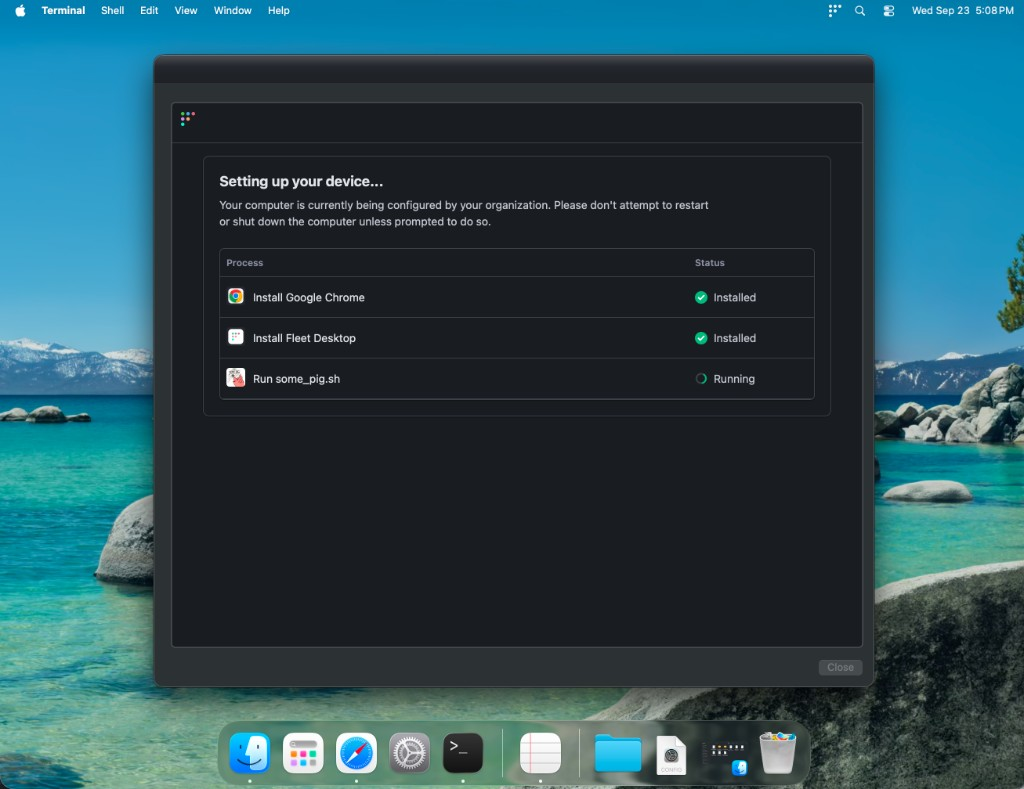
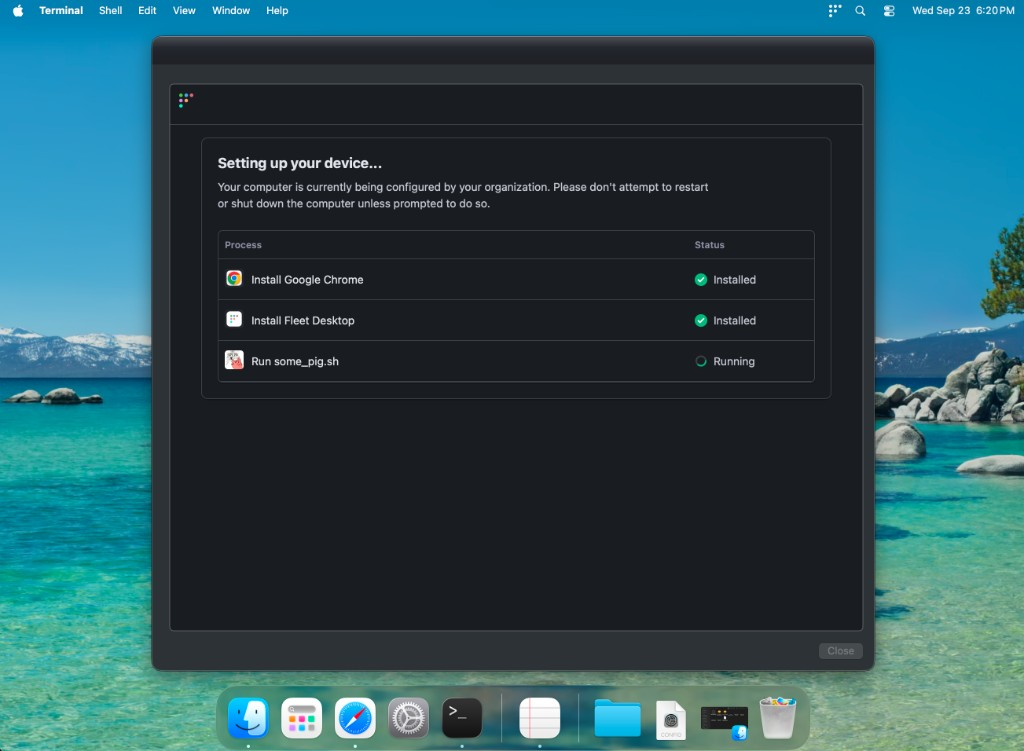
Clarify and reformat fleet-interlude docs
Polish fleet-interlude documentation: deployment guidance clearer and more concise.

diff --git a/fleet-interlude/example-deployment.md b/fleet-interlude/example-deployment.md
@@ -4,11 +4,14 @@ This is one working example of how to run Interlude in production. It uses a ded
 
 ## Goal
 
-| User story  |
-|:---------------------------------------------------------------------------|
-| As an IT admin,
-| I want a specific set of software to install, in order, on manually enrolled macOS hosts immediately after enrollment and before anything else,
-| so that I can confirm each new host meets a standardized, base-level configuration before it is transferred to our production fleet.
+
+| User story                                                                                                                                                      |
+| --------------------------------------------------------------------------------------------------------------------------------------------------------------- |
+| As an IT admin,                                                                                                                                                 |
+| I want a specific set of software/scripts to install and run, in order, on manually enrolled macOS hosts immediately after enrollment and before anything else, |
+| so that I can confirm each new host meets a standardized, base-level configuration before it is transferred to our production fleet.                            |
+
+
 
 
 ## Overview
@@ -17,39 +20,37 @@ Newly enrolled hosts land in a staging fleet, Interlude runs there on the host's
 
 The staging fleet does three jobs:
 
-- **Its enroll secret is the filter.** Only hosts enrolled with the staging fleet's link get Interlude. Existing hosts and ADE enrollments never land there, so you don't need a label to tell a new manual enrollment apart from a migration or an existing host.
-- **It keeps Interlude first.** Fleet doesn't let you order policy automations ([fleetdm/fleet#29921](https://github.com/fleetdm/fleet/issues/29921)). Keeping every other policy, automation, and software title out of the staging fleet is the reliable way to make sure nothing else queues work before Interlude runs.
-- **It avoids label timing.** Labels and policies are both evaluated on a new host's first check-in, so a policy gated by a label can fire earlier or later than you expect ([fleetdm/fleet#49083](https://github.com/fleetdm/fleet/issues/49083) was a bug in this area). A fleet boundary has no such race.
+- **Its enroll secret is the filter.** Only hosts enrolled with the staging fleet's URL get Interlude.
+- **It keeps Interlude first.** Fleet doesn't let you order policy automations (as of version 4.92.0). Keeping every other policy, automation, and software title out of the staging fleet is the reliable way to make sure nothing else queues work before Interlude runs.
+- **It avoids label timing.** Labels and policies are both evaluated on a new host's first check-in, so a policy gated by a label can fire earlier or later than you expect. A fleet boundary has no such race.
 
-If you require end user authentication on your manual enrollment link, turn it on for the staging fleet too. The enroll secret decides which fleet's settings apply, so IdP sign-in and user-to-host mapping only happen when the secret belongs to a fleet that requires it.
+
 
 ## Steps
 
 1. Create a new fleet named `Manual enrollment staging`.
-2. In that fleet, add a self-service software title for each item you want Interlude to install. Custom packages, script-only packages, Fleet-maintained apps, and App Store (VPP) apps all work. VPP apps require the host to be MDM-enrolled in Fleet; the others need only fleetd.
+2. In that fleet, add a self-service software title for each item you want Interlude to install. Custom packages, script-only packages, Fleet-maintained apps, and App Store (VPP) apps all work.
 3. Customize `fleet-interlude.sh` to your needs. At minimum, set `STEPS` to your title names in the order you want them installed.
 4. Upload `fleet-interlude.sh` to the staging fleet under **Controls > Scripts**.
 5. Create a policy in the staging fleet named **macOS - Fleet Interlude complete** that fails until the sentinel exists. Set its run-script automation to `fleet-interlude.sh`. A new host fails this policy on its first check-in, which is what starts Interlude.
-
-    ```sql
+  ```sql
     SELECT 1 FROM file WHERE path = '/var/db/fleet-interlude.done';
-    ```
-
+  ```
 6. Create a policy in the staging fleet named **macOS - Fleet Interlude verified** that passes only when the sentinel and every title you intended to install are present. Each `EXISTS` below maps to one `STEPS` entry. The last one checks a file that the example script-only package writes.
-
-    ```sql
+  ```sql
     SELECT 1 WHERE
       EXISTS (SELECT 1 FROM file WHERE path = '/var/db/fleet-interlude.done')
       AND EXISTS (SELECT 1 FROM apps WHERE bundle_identifier = 'com.google.Chrome')
       AND EXISTS (SELECT 1 FROM file WHERE path = '/Applications/Fleet Desktop.app')
       AND EXISTS (SELECT 1 FROM file WHERE path = '/var/db/some-pig.ran');
-    ```
-
+  ```
 7. Keep **all other policies, automations, and software** out of the staging fleet unless Interlude needs them.
 8. Hand out only the staging fleet's enrollment link for manual enrollments.
 9. Once a host passes **macOS - Fleet Interlude verified**, transfer it to your production fleet.
 
 > *Optional*: Use Tines or another automation platform to [transfer verified hosts to your production fleet](https://fleetdm.com/docs/rest-api/rest-api#update-hosts-fleet) and surface failures in Slack.
+
+
 
 ## GitOps equivalent
 
@@ -94,7 +95,3 @@ software:
       AND EXISTS (SELECT 1 FROM file WHERE path = '/var/db/some-pig.ran');
 ```
 
-## Re-enrollment and retries
-
-- **Re-enrolling a wiped Mac.** The sentinel lives on disk, so a wiped Mac runs Interlude again once it re-enrolls into the staging fleet. Fleet, however, keeps a non-ADE host's previous policy results and label memberships until they refresh, so the host can briefly show **Fleet Interlude verified** as passing. If you automate the transfer to production, delete the host from Fleet before re-enrolling it. That is Fleet's current guidance for non-ADE hosts.
-- **A failed run.** Fleet's run-script automation fires when the policy first fails, not on every failing run. If Interlude ends with a failed step, the sentinel is not written, the host stays in staging, and the script does not re-run on its own. Fix the title, then re-run the script from **Host details > Actions > Run script**.

diff --git a/fleet-interlude/README.md b/fleet-interlude/README.md
@@ -2,7 +2,7 @@
 
 A post-login setup tracker designed for non-ADE Macs enrolling into Fleet. 
 
-![Fleet Interlude window showing Google Chrome and Fleet Desktop installed and some_pig.sh running](images/fleet-interlude.jpg)
+![Fleet Interlude window in dark mode showing Google Chrome and Fleet Desktop installed and some_pig.sh running](images/fleet-interlude.jpg)
 
 > **NOTE**: This is a community project, not officially supported by Fleet. It is not designed to replace Fleet's native setup experience feature for Macs going through Automated Device Enrollment (ADE).
 
@@ -77,7 +77,7 @@ These flags only apply when you run the script by hand, for example `sudo ./flee
 
 Installing several titles usually takes longer than Fleet's default 300-second script timeout. With `DETACH=true`, live runs copy the script to `/var/db/fleet-interlude/` and continue under the LaunchDaemon `com.fleet.interlude`, so Fleet records the script as successful while installs keep going. 
 
-If you set `DETACH=false`, you may experience timeout errors. You can [raise the default script execution timeout](https://fleetdm.com/docs/configuration/agent-configuration#script-execution-timeout) (`agent_options.script_execution_timeout`) to get around this, just be aware of the consequences of raising your script execution timeout.
+If you set `DETACH=false`, you may experience timeout errors. To get around this you can [raise the default script execution timeout](https://fleetdm.com/docs/configuration/agent-configuration#script-execution-timeout) (`agent_options.script_execution_timeout`).
 
 ## Logs and exit codes
 
